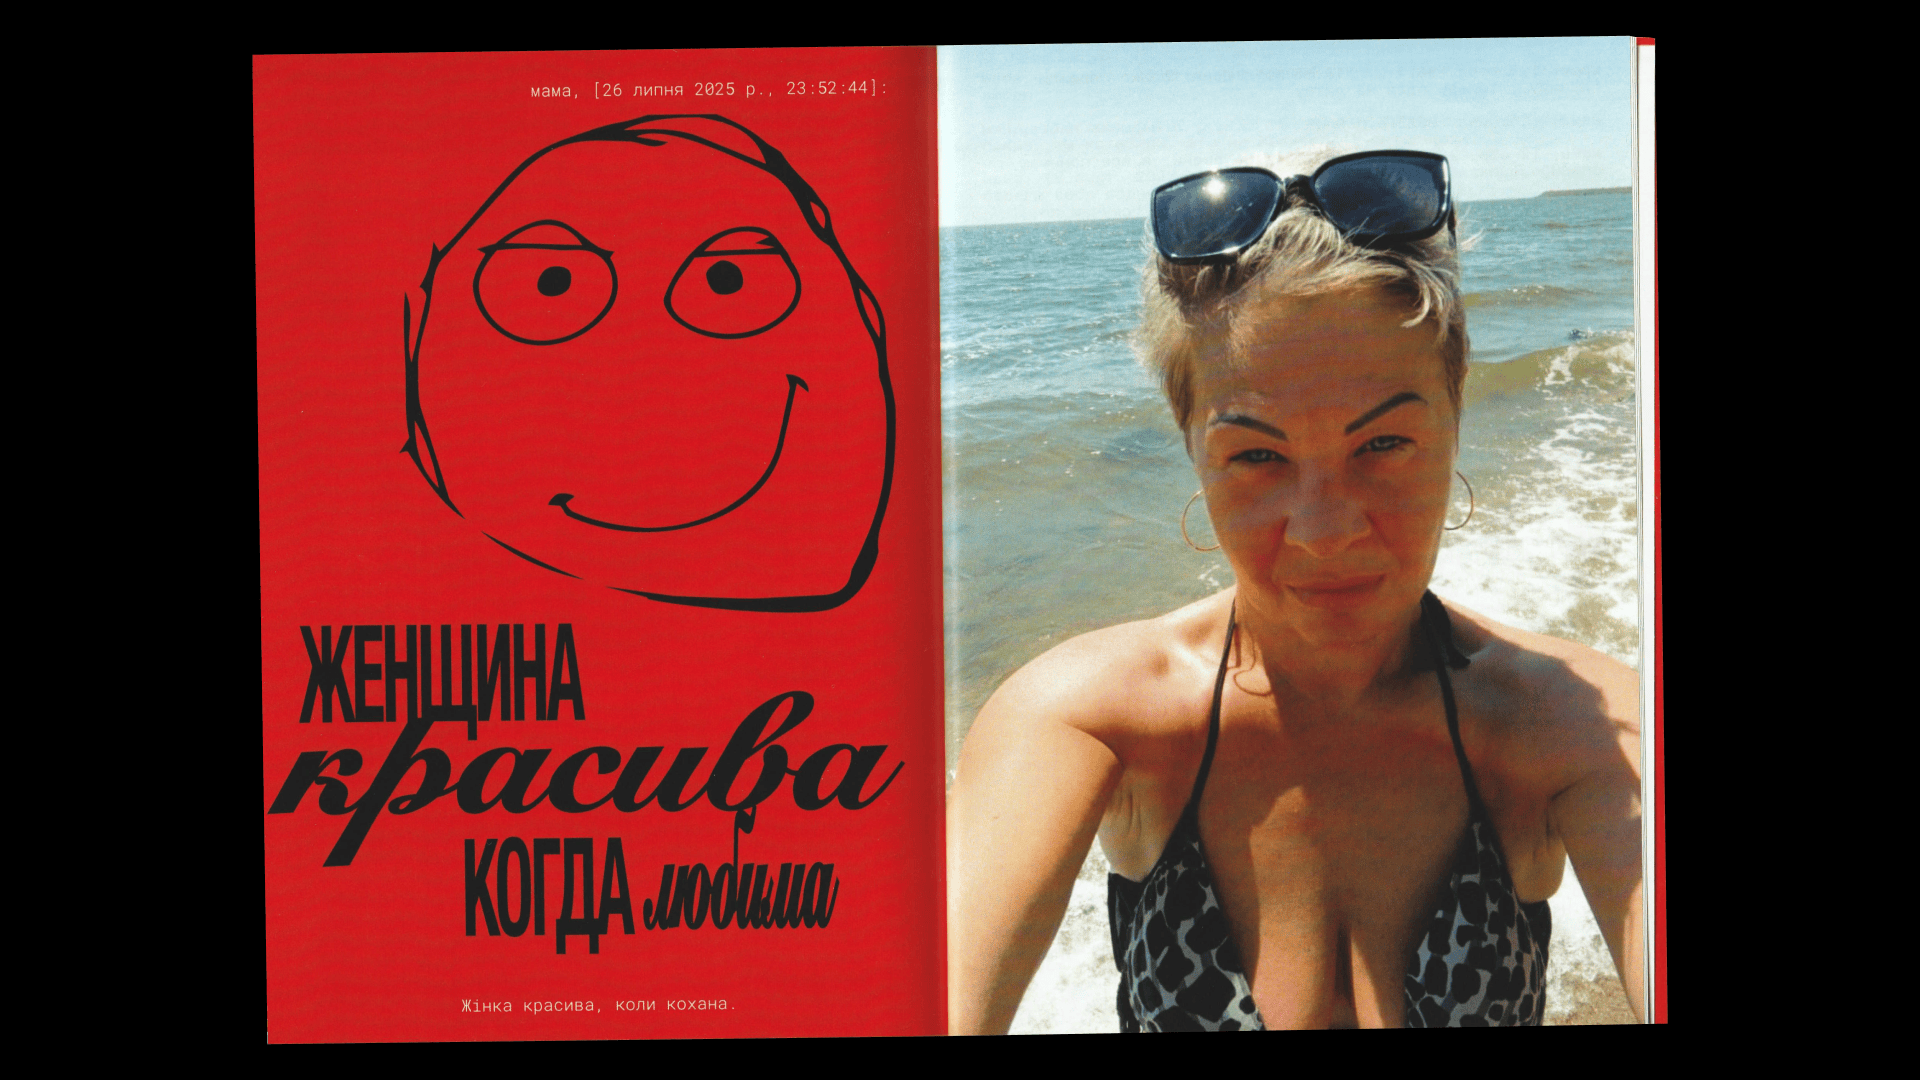
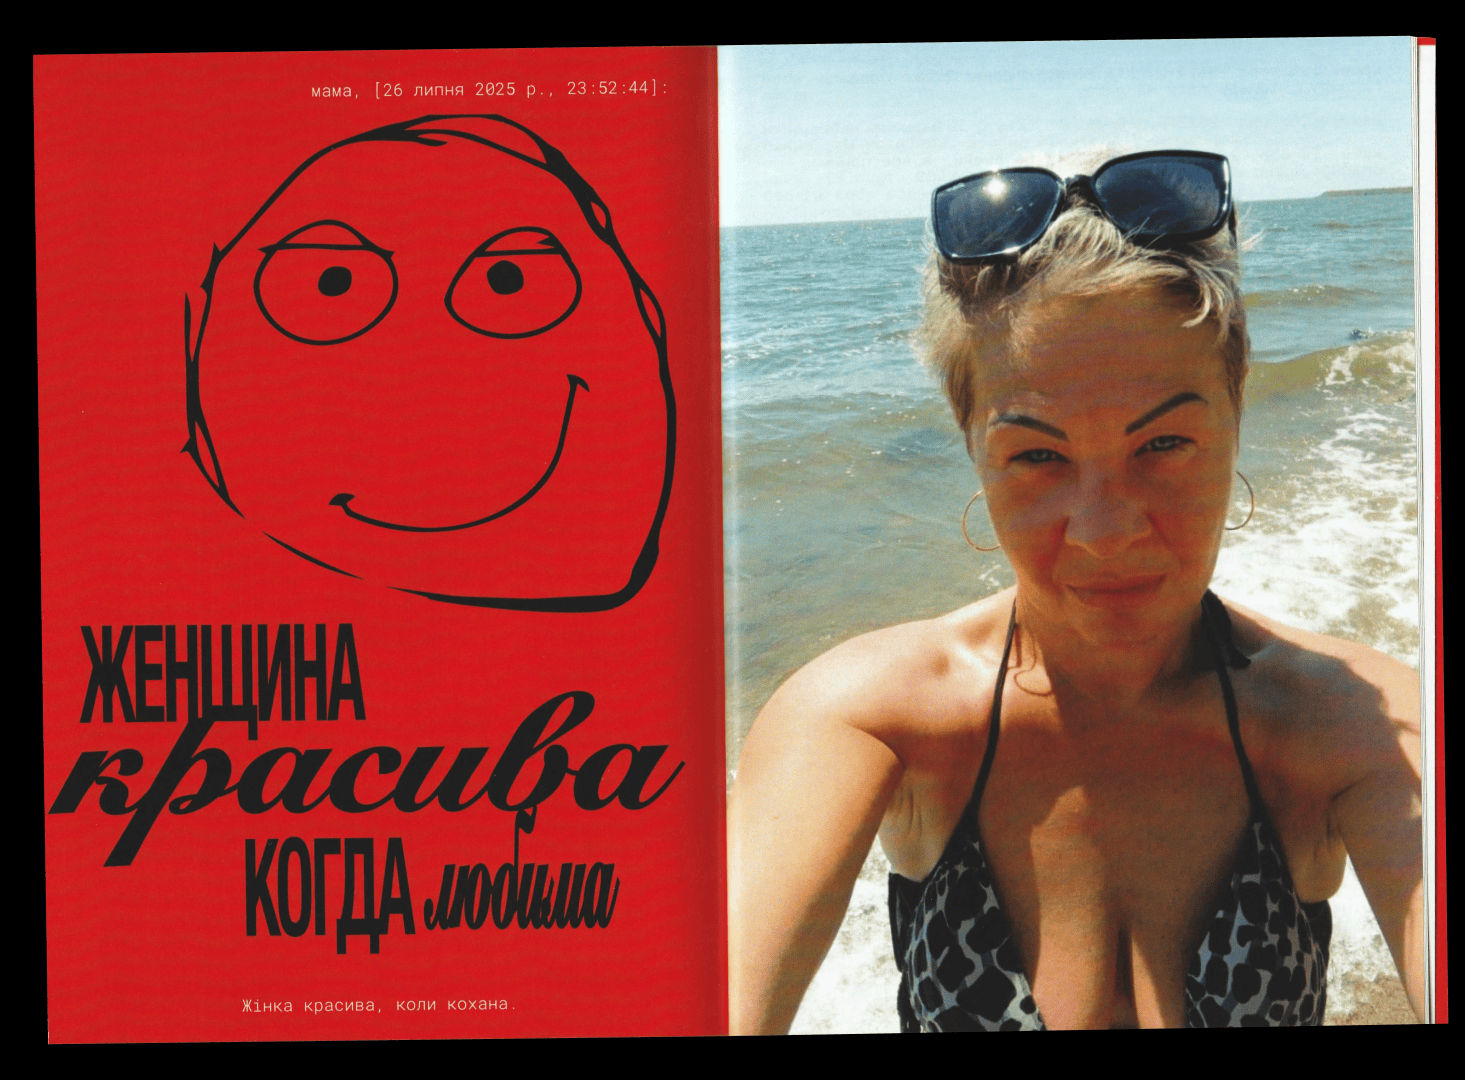
3

diff --git a/publishing/mama/index.html b/publishing/mama/index.html
@@ -417,6 +417,14 @@
                         class="max-h-[85vh] max-w-[70vw] object-contain drop-shadow-2xl">
                 </div>
             </div>
+            <div class="group cursor-pointer relative shrink-0">
+                <img src="./24.png" alt="Image 24"
+                    class="h-[78px] w-auto object-contain border-r border-t border-white/20 bg-black/10">
+                <div class="absolute bottom-full left-0 mb-3 hidden group-hover:block z-[120] pointer-events-none">
+                    <img src="./24.png" alt="Image 24 Full"
+                        class="max-h-[85vh] max-w-[70vw] object-contain drop-shadow-2xl">
+                </div>
+            </div>
         </div>
     </div>
 
